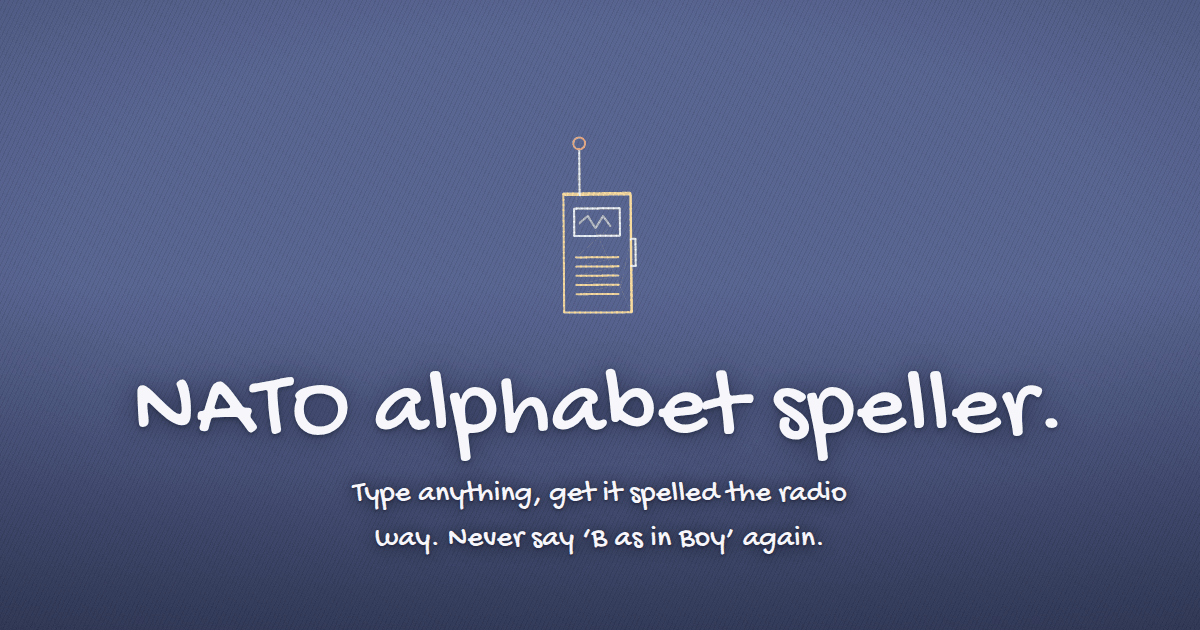
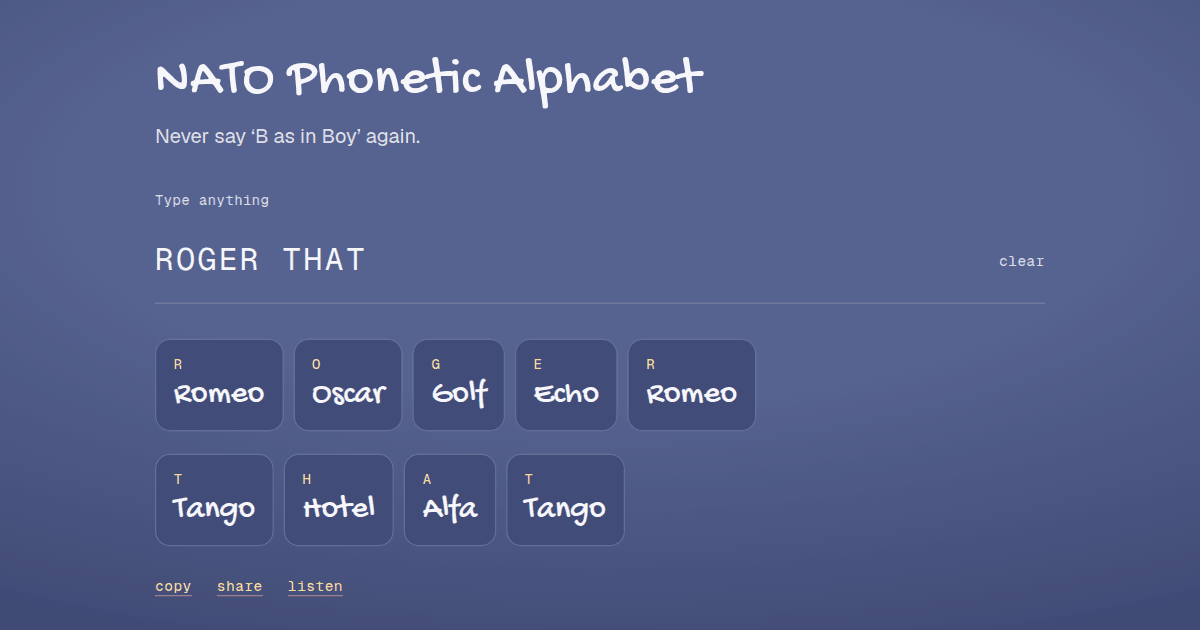
Give every page a preview of its own view
Small things, NATO, pace and Find the card now share a screenshot of the
page itself: the four tool cards, the ROGER THAT cards, the 25:00 5K
result and the six pixel cards. The build check confirms each page
points at its own image. The vinyl wall keeps its drawn preview until
the script runs where album covers can load. AGENTS.md explains how to
refresh them.

Claude-Session: https://claude.ai/code/session_01STmrzxfubfgCtyrL61SvoU

diff --git a/client/src/pages/Pace.tsx b/client/src/pages/Pace.tsx
@@ -85,6 +85,7 @@ export default function Pace() {
         title="Pace calculator — Olayinka Titilola"
         description="Work out your running pace from a finish time, with splits and what that pace means for 5K, 10K, half and full marathons."
         path="/pace"
+        image="/og-pace.png"
       />
       <SiteHeader back="things" />
       <main className="pc">

diff --git a/client/src/pages/SmallThings.tsx b/client/src/pages/SmallThings.tsx
@@ -73,6 +73,7 @@ export default function SmallThings() {
         title="Small things — Olayinka Titilola"
         description="Little tools by Olayinka: a NATO alphabet speller, a running pace calculator, a card game and a record picker."
         path="/small-things"
+        image="/og-small-things.png"
       />
       <SiteHeader />
       <main className="st">

diff --git a/client/src/pages/Cards.tsx b/client/src/pages/Cards.tsx
@@ -204,6 +204,7 @@ export default function Cards() {
         title="Find the card — Olayinka Titilola"
         description="Pick a card, watch the shuffle, and try to find it again. Each find makes the next shuffle faster."
         path="/cards"
+        image="/og-cards.png"
       />
       <SiteHeader back="things" />
       <main className="kd">

diff --git a/AGENTS.md b/AGENTS.md
@@ -132,6 +132,12 @@ no-break space before `:`. The French has not had a native-speaker review.
 
 ## Gotchas
 
+- Share images: each page's `og:image` is a screenshot of the page itself,
+  made by `node scripts/make-og-images.mjs` after `pnpm build` (writes
+  `client/public/og-*.png`; commit them). Re-run it when a page's look
+  changes. It skips the vinyl wall if the covers can't load, keeping the old
+  image, so run it somewhere with internet to refresh that one. Pages pass
+  their image to `PageMeta` via `image`, and `test:build` checks each one.
 - If the app crashes, `components/ErrorBoundary.tsx` shows a calm page in the
   site's style. Never render error details or stack traces to visitors.
 - The CSP is `script-src 'self'`, so no inline scripts.
